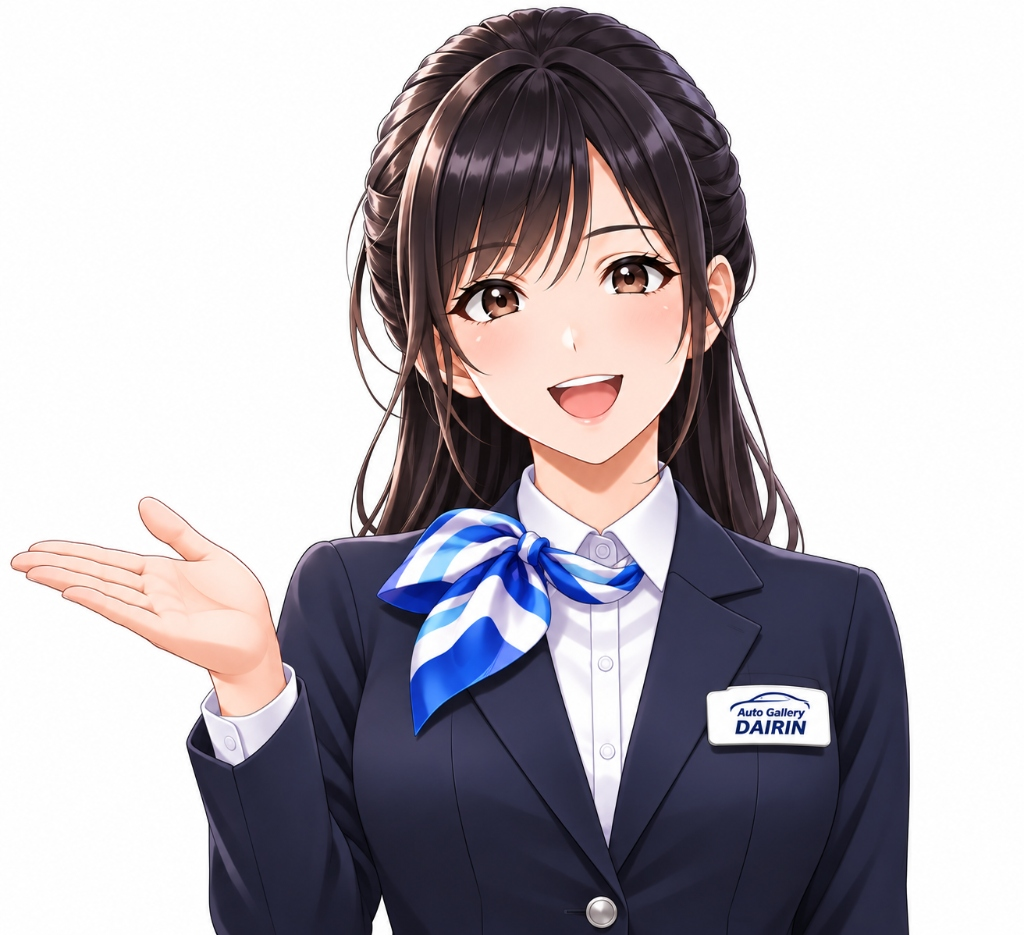
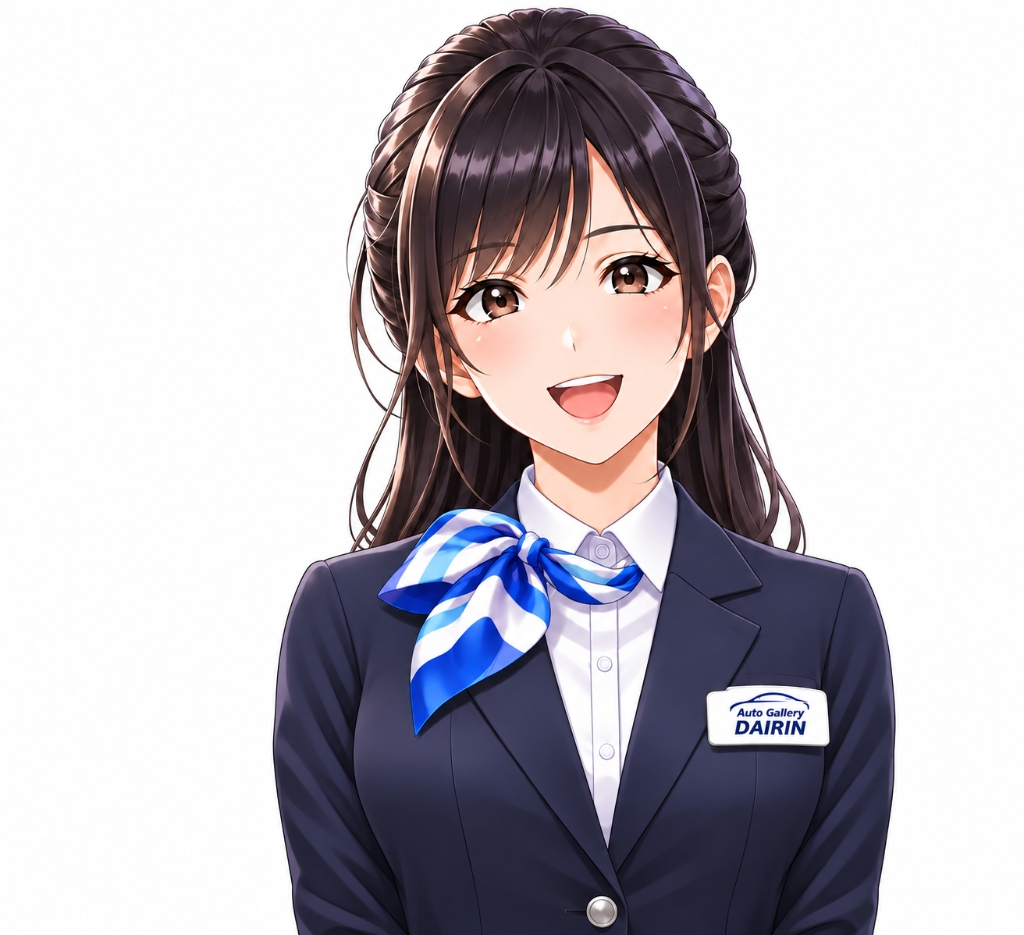
feat: update character artwork to arms-down natural posture and center alignment

diff --git a/src/components/SalesCharacter/SalesCharacter.tsx b/src/components/SalesCharacter/SalesCharacter.tsx
@@ -430,10 +430,11 @@ export const SalesCharacter: React.FC<SalesCharacterProps> = ({
         const dx = smoothHeadSwayX * wHead * (0.45 + 0.55 * headLeverage);
         const dy = smoothNodY * wHead + breathWave * 2.2 * wBreath;
 
-        // 呼吸に伴う肩〜胸元の微細な横幅伸縮
+        // 呼吸に伴う肩〜胸元の微細な横幅伸縮（手がない新画像の中心 X=584 をカード中央 X=516 へ補正）
+        const CENTER_SHIFT_X = -68;
         const scaleX = 1.0 + Math.max(0, breathWave) * 0.0035 * wBreath;
         const drawW = CANVAS_W * scaleX;
-        const drawX = dx - (drawW - CANVAS_W) * 0.5;
+        const drawX = CENTER_SHIFT_X + dx - (drawW - CANVAS_W) * 0.5;
 
         // ストリップ間の隙間を防ぐため 0.6px オーバーラップ描画
         ctx.drawImage(
